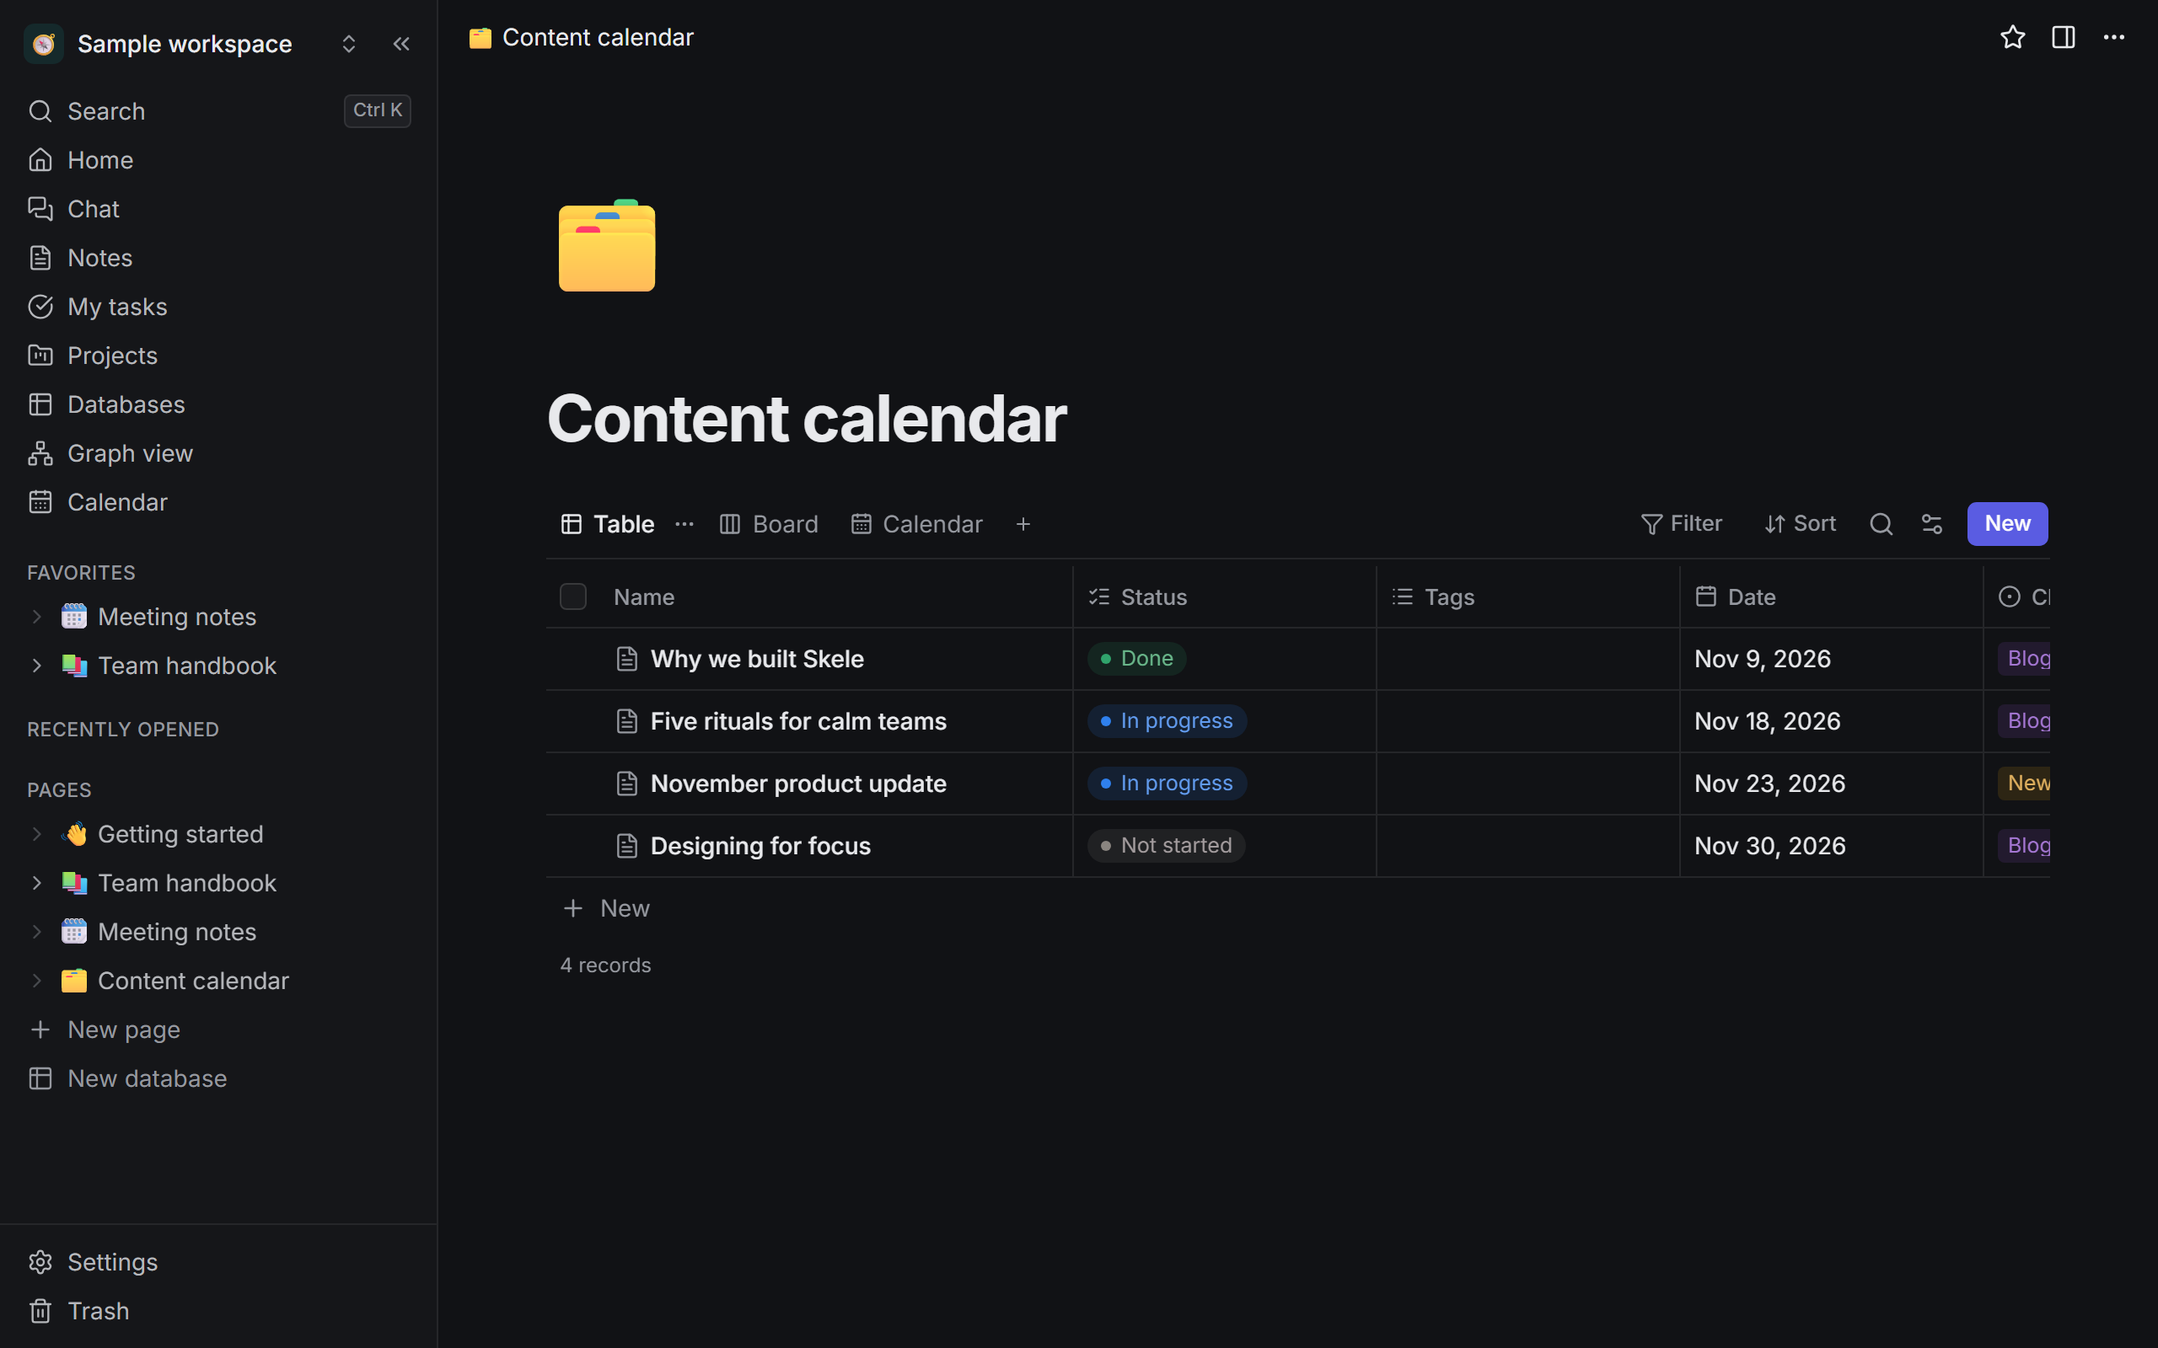
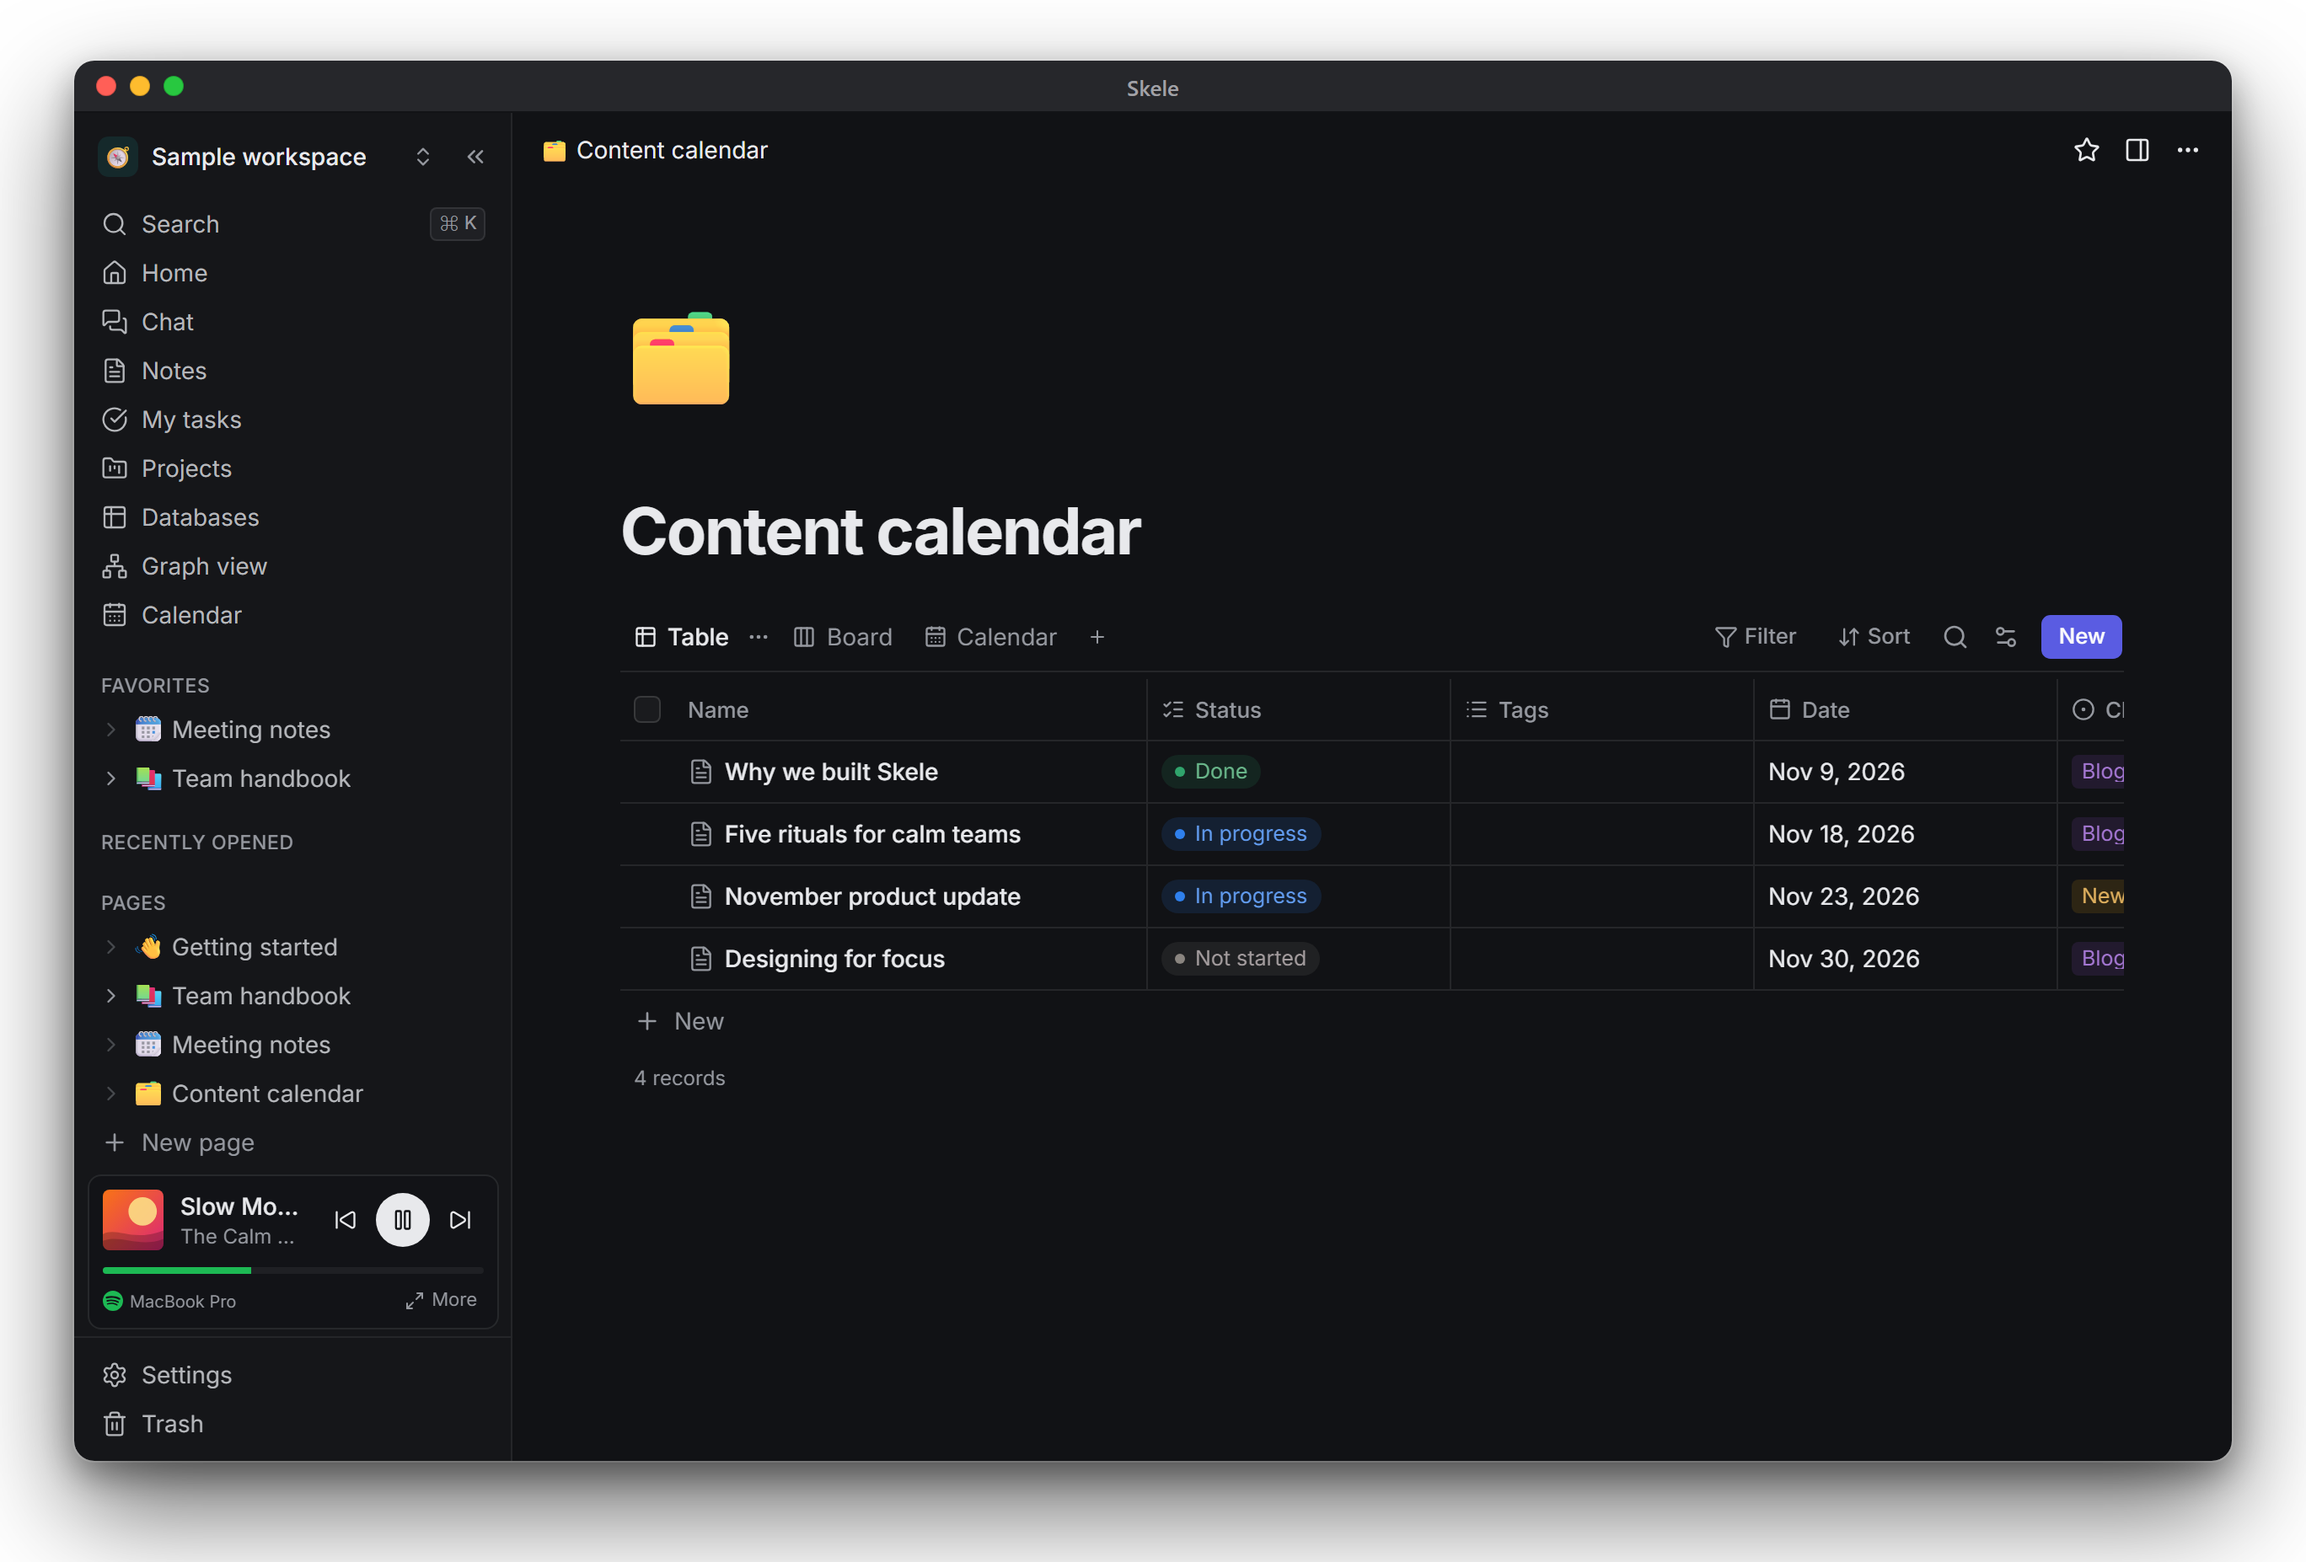
README: macOS window frames and Spotify in the screenshots
- Every screenshot sits in a macOS-style window (traffic-light buttons,
  rounded corners, shadow) on a transparent background, light and dark.
- Spotify is connected in the shots through the real sign-in flow against
  a simulated Spotify (made-up track, playlists and cover art), so the
  sidebar player shows in every scene, plus a new expanded-player shot.
- Shortcuts read ⌘ to match the Mac frame.

Fix: the expanded Spotify player rendered the sheet's own close button on
top of its Minimise button (garbled icon, blocked clicks); turn it off.

diff --git a/src/features/spotify/components/spotify-player.tsx b/src/features/spotify/components/spotify-player.tsx
@@ -420,7 +420,12 @@ export function SpotifyFloatingPlayer() {
         </aside>
       )}
       <Sheet open={open} onOpenChange={setOpen} modal={false}>
-        <SheetContent side="right" className="gap-0 p-0 data-[side=right]:w-full data-[side=right]:sm:max-w-sm" onOpenAutoFocus={(e) => e.preventDefault()}>
+        <SheetContent
+          side="right"
+          className="gap-0 p-0 data-[side=right]:w-full data-[side=right]:sm:max-w-sm"
+          showCloseButton={false}
+          onOpenAutoFocus={(e) => e.preventDefault()}
+        >
           <SheetTitle className="sr-only">Spotify</SheetTitle>
           <SheetDescription className="sr-only">Control your Spotify playback</SheetDescription>
           <ExpandedPlayer state={state} onClose={() => setOpen(false)} />

diff --git a/README.md b/README.md
@@ -90,6 +90,13 @@ Skele runs as a **desktop app** for Windows, macOS and Linux, and as an installa
   <img src="docs/screenshots/database.png" alt="The Content calendar database in table view with status, date and channel columns" width="100%">
 </picture>
 
+**Spotify** (optional): what's playing in the sidebar, plus playlists, recent tracks and devices
+
+<picture>
+  <source media="(prefers-color-scheme: dark)" srcset="docs/screenshots/spotify-dark.png">
+  <img src="docs/screenshots/spotify.png" alt="The Spotify player: a now-playing card in the sidebar and the expanded player with playback controls, volume and playlists" width="100%">
+</picture>
+
 ## Install
 
 Download the latest version from **[GitHub Releases](../../releases/latest)**. GitHub shows a

diff --git a/CHANGELOG.md b/CHANGELOG.md
@@ -6,6 +6,12 @@ All notable changes are listed here. The format follows
 
 ## [Unreleased]
 
+### Fixed
+
+- The expanded Spotify player showed two overlapping buttons in its top-right corner (the
+  panel's close button over the player's own Minimise button), which also blocked clicks on
+  Minimise.
+
 ## [0.2.1] - 2026-11-15
 
 ### Added
